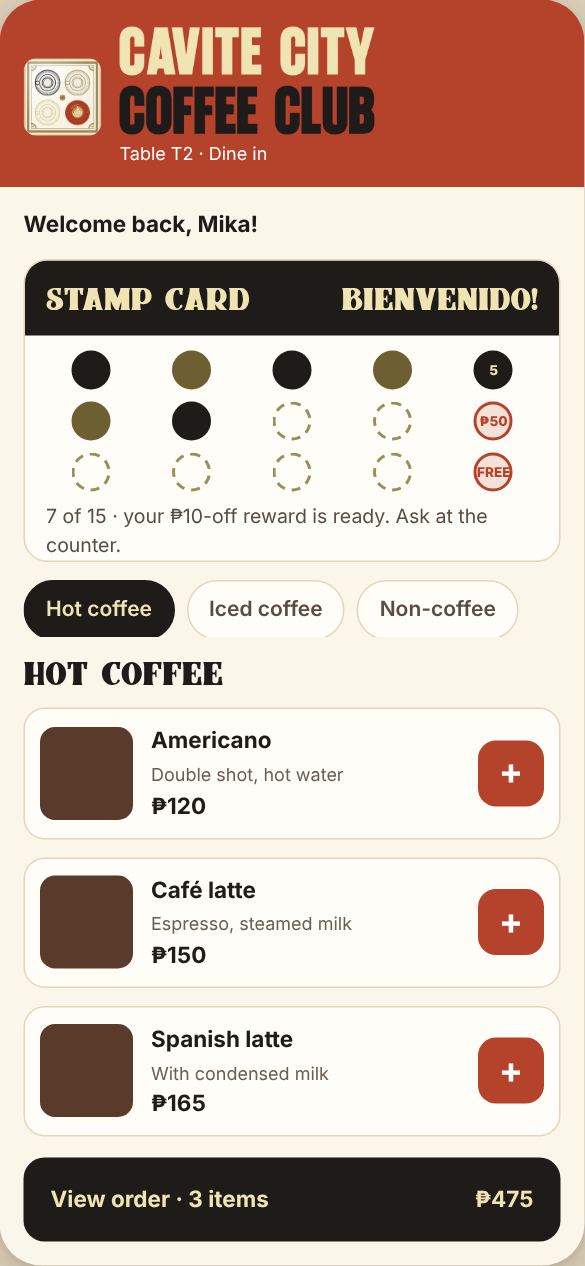
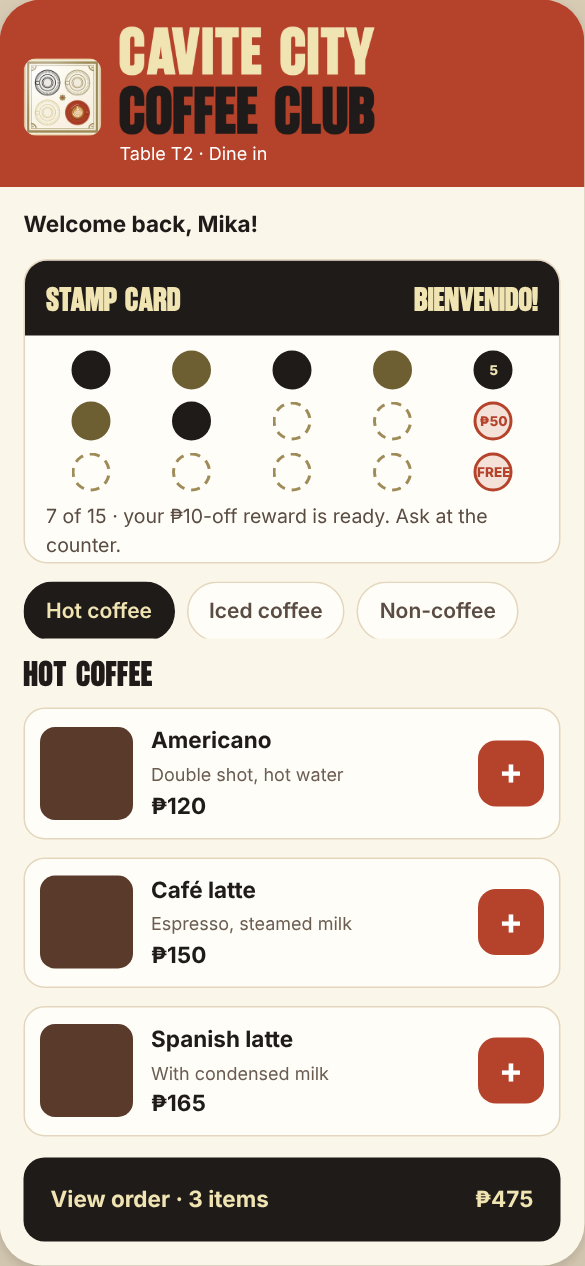
Brand: Brunson back as the display font (owner's choice); Braton removed; wordmark images kept
Claude-Session: https://claude.ai/code/session_01NVA2NxtgCDJzHY8g2MmBpt

diff --git a/docs/design/mock-1.2.html b/docs/design/mock-1.2.html
@@ -9,7 +9,7 @@
 *{box-sizing:border-box;margin:0;padding:0}
 body{font-family:var(--cc-font-body);color:var(--cc-ink);background:#d9cdb6;font-size:15px;line-height:1.45}
 .frame{width:1280px;height:800px;margin:24px auto;background:var(--cc-paper);display:grid;grid-template-columns:220px 1fr;overflow:hidden;border-radius:14px;box-shadow:var(--cc-shadow-lift)}
-.disp{font-family:var(--cc-font-display);font-feature-settings:var(--cc-display-features);text-transform:var(--cc-display-case);font-weight:400;line-height:1.05}
+.disp{font-family:var(--cc-font-display);text-transform:var(--cc-display-case);letter-spacing:.5px;line-height:1}
 .sech{font-family:var(--cc-font-body);font-weight:800;letter-spacing:.2px}
 svg.i{width:22px;height:22px;stroke:currentColor;fill:none;stroke-width:1.8;stroke-linecap:round;stroke-linejoin:round;flex:none}
 /* sidebar */
@@ -43,7 +43,7 @@ svg.i{width:22px;height:22px;stroke:currentColor;fill:none;stroke-width:1.8;stro
 .search{display:flex;align-items:center;gap:10px;min-height:48px;padding:0 14px;border-radius:12px;background:var(--cc-card);border:1px solid var(--cc-line);color:var(--cc-muted)}
 .chips{display:flex;gap:8px;flex-wrap:wrap}
 .sec{display:flex;align-items:baseline;gap:10px;margin:4px 0 8px}
-.sec h2{font-size:19px}
+.sec h2{font-size:22px}
 .sec span{color:var(--cc-muted);font-size:13px;font-weight:600}
 .grid{display:grid;grid-template-columns:repeat(5,1fr);gap:10px}
 .tile{min-height:92px;border-radius:12px;padding:10px 12px;display:flex;flex-direction:column;justify-content:space-between;box-shadow:var(--cc-shadow)}
@@ -199,7 +199,7 @@ td{padding:9px 8px;border-bottom:1px solid var(--cc-line)}
         <div class="search"><svg class="i"><use href="#i-search"/></svg>Search the menu</div>
         <div class="chips"><span class="chip on">All</span><span class="chip">Hot coffee</span><span class="chip">Iced coffee</span><span class="chip">Non-coffee</span><span class="chip">Pastries</span><span class="chip">Rice meals</span></div>
         <div>
-          <div class="sec"><h2 class="sech">Hot coffee</h2><span>5 items</span></div>
+          <div class="sec"><h2 class="disp">Hot coffee</h2><span>5 items</span></div>
           <div class="grid">
             <div class="tile t-cocoa"><span class="n">Americano</span><span class="p">₱120</span></div>
             <div class="tile t-cocoa"><span class="n">Café latte</span><span class="p">₱150</span></div>
@@ -209,7 +209,7 @@ td{padding:9px 8px;border-bottom:1px solid var(--cc-line)}
           </div>
         </div>
         <div>
-          <div class="sec"><h2 class="sech">Iced coffee</h2><span>5 items</span></div>
+          <div class="sec"><h2 class="disp">Iced coffee</h2><span>5 items</span></div>
           <div class="grid">
             <div class="tile t-terracotta"><span class="n">Iced latte</span><span class="p">₱160</span></div>
             <div class="tile t-terracotta"><span class="n">Iced Spanish latte</span><span class="p">₱175</span></div>
@@ -219,7 +219,7 @@ td{padding:9px 8px;border-bottom:1px solid var(--cc-line)}
           </div>
         </div>
         <div>
-          <div class="sec"><h2 class="sech">Non-coffee</h2><span>3 items</span></div>
+          <div class="sec"><h2 class="disp">Non-coffee</h2><span>3 items</span></div>
           <div class="grid">
             <div class="tile t-sage light"><span class="n">Matcha latte</span><span class="p">₱170</span></div>
             <div class="tile t-sage light"><span class="n">Chocolate</span><span class="p">₱150</span></div>
@@ -227,7 +227,7 @@ td{padding:9px 8px;border-bottom:1px solid var(--cc-line)}
           </div>
         </div>
         <div>
-          <div class="sec"><h2 class="sech">Pastries</h2><span>4 items</span></div>
+          <div class="sec"><h2 class="disp">Pastries</h2><span>4 items</span></div>
           <div class="grid">
             <div class="tile t-butter light"><span class="n">Ensaymada</span><span class="p">₱85</span></div>
             <div class="tile t-butter light"><span class="n">Banana bread</span><span class="p">₱95</span></div>

diff --git a/cccc/shared/brand/tokens.css b/cccc/shared/brand/tokens.css
@@ -4,17 +4,14 @@
    pair below passes 4.5:1 contrast (checked). Olive-gold (--cc-olive) is 3.1:1 on paper:
    borders and decoration only, never text. */
 
-/* Braton Composer (Alit Design, bought by the owner): page titles and brand moments only.
-   NO SWASH (owner, 2026-10-29): Braton's capital letters are the swash forms and its lowercase
-   letters are plain small capitals, so display text is shown in lowercase (--cc-display-case)
-   with swash features off (--cc-display-features). Result: clean capitals, no swashes.
-   The shop name "Cavite City Coffee Club" is never typed in Braton: use the Brunson wordmark
-   images (wordmark-dark / -terracotta / -cream .webp), drawn exactly like the logo.
+/* Brunson (owner's choice, 2026-10-29): titles, totals, the stamp card and brand moments,
+   shown in capitals like the logo. The shop name itself uses the wordmark images
+   (wordmark-dark / -terracotta / -cream .webp), drawn exactly like the logo.
    No ₱ sign in this font: the browser falls back to the body font for it. */
 @font-face{
-  font-family:'Braton Composer';
-  src:url('braton-composer.woff') format('woff');
-  font-weight:400; font-style:normal; font-display:swap;
+  font-family:'Brunson';
+  src:url('brunson.woff') format('woff');
+  font-weight:400 900; font-style:normal; font-display:swap;
 }
 
 :root{
@@ -41,9 +38,9 @@
   --cc-info:#2E5A6B;    --cc-info-tint:#DDEBEF;
 
   /* Type */
-  --cc-font-display:'Braton Composer',Georgia,'Times New Roman',serif;
-  --cc-display-features:"calt" 0,"swsh" 0,"salt" 0,"dlig" 0,"liga" 0,"aalt" 0;
-  --cc-display-case:lowercase;   /* use with text-transform on every Braton element */
+  --cc-font-display:'Brunson','Arial Narrow',Impact,sans-serif;
+  --cc-display-features:normal;
+  --cc-display-case:uppercase;   /* use with text-transform on every display-font element */
   --cc-font-body:system-ui,-apple-system,'Segoe UI',Roboto,'Helvetica Neue',Arial,sans-serif;
   --cc-font-num:ui-monospace,'Cascadia Mono','Segoe UI Mono',Menlo,monospace;
 

diff --git a/docs/design/README.md b/docs/design/README.md
@@ -3,8 +3,8 @@
 - **Colours and sizes:** `cccc/shared/brand/tokens.css`. Every app loads it first, and screens use its variables, never raw colour codes.
 - **Mock:** `mock-1.2.html` (screenshots in `shots/`). It shows four screens: counter Orders, the QR orders floor plan, counter Customers, and the customer's phone.
 - **Logo:** web-size images in `cccc/shared/brand/`, made from the 2026-10-29 logo prototype. The prototype's SVGs are not used, because they contain the font files.
-- **Braton Composer** (Alit Design, bought by the owner) is used for page titles and brand moments only, through one `@font-face` in `tokens.css`. No swashes (owner): Braton's capitals are the swash shapes and its lowercase letters are plain small capitals, so titles are shown in lowercase (`--cc-display-case`) with swash features off. It has no ₱ sign; the body font fills that in.
-- **Shop name wordmark (Brunson):** "Cavite City Coffee Club" is shown as an image drawn in Brunson exactly like the logo (`wordmark-dark`, `-terracotta`, `-cream`.webp; colours from the logo). The Brunson font file itself is not shipped, because it has no licence file and says "All Rights Reserved".
+- **Brunson** (owner's choice) is the display font for titles, section headings, totals and the stamp card, in capitals like the logo, through one `@font-face` in `tokens.css`. It has no ₱ sign; the body font fills that in. The font says "All Rights Reserved" (The Branded Quotes), and the owner keeps the purchase record. Braton Composer was tried and set aside by the owner.
+- **Shop name wordmark (Brunson):** "Cavite City Coffee Club" is shown as an image drawn in Brunson exactly like the logo (`wordmark-dark`, `-terracotta`, `-cream`.webp; colours from the logo).
 - **Body text:** each device's own system font (Segoe UI, Roboto, San Francisco). Nothing to download, so it's fast on mobile data and works offline.
 - **Rules:**
   - every text colour pair is at least 4.5:1;
